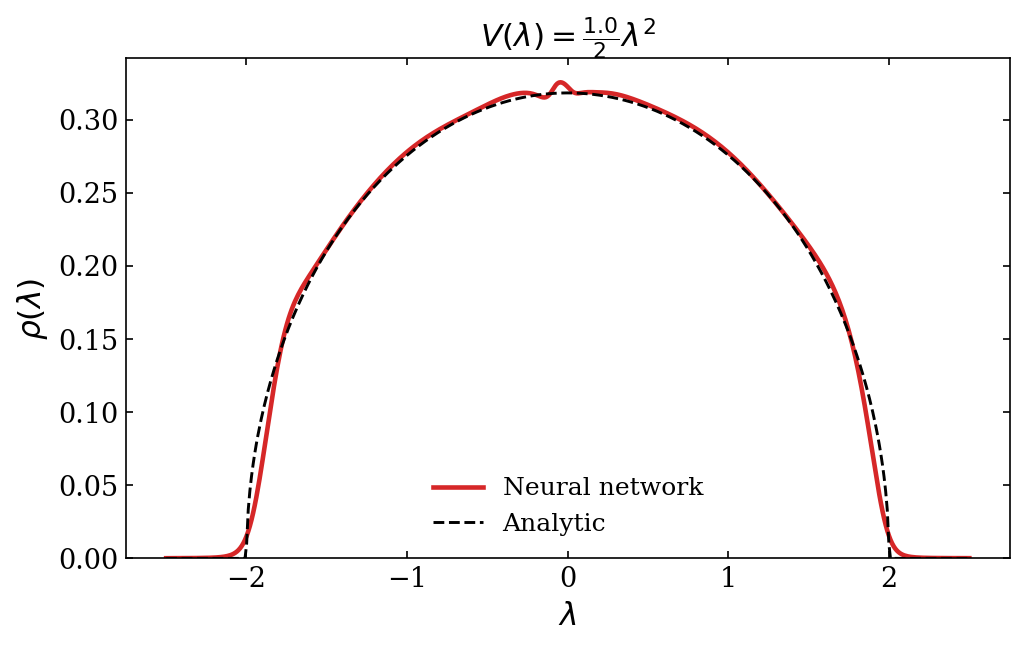
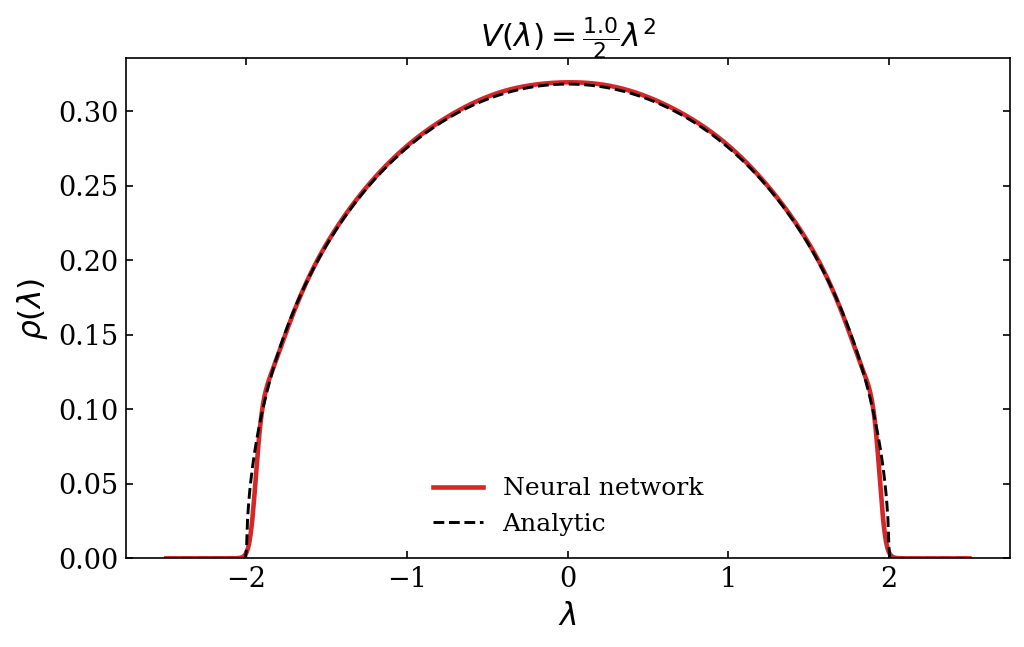
changed activation

diff --git a/plot.py b/plot.py
@@ -1,14 +1,15 @@
 import math
 import pickle
 
+import jax
 import jax.numpy as jnp
 import matplotlib.pyplot as plt
 import numpy as np
 import torch
 
 from config import *
-from model import MatrixNetwork as TorchModel
 from model_jax import MatrixNetwork as JaxModel
+from model_torch import MatrixNetwork as TorchModel
 
 
 def plot_torch(model, grid, args, save_path=None):
@@ -20,7 +21,7 @@ def plot_torch(model, grid, args, save_path=None):
 
 def plot_jax(params, model, grid, args, save_path=None):
     f = model.apply({"params": params}, grid)
-    rho = jnp.exp(f)
+    rho = jax.nn.softplus(f)
     rho = rho / jnp.trapezoid(rho, grid)
     plot(np.array(rho), np.array(grid), args, save_path)
 

diff --git a/model_jax.py b/model_jax.py
@@ -12,6 +12,6 @@ class MatrixNetwork(nn.Module):
         x = x[..., None]
         for _ in range(self.num_layers):
             x = nn.Dense(self.hidden_dim)(x)
-            x = nn.tanh(x)
+            x = nn.gelu(x)
         x = nn.Dense(1)(x)
         return x[..., 0]

diff --git a/train_jax.py b/train_jax.py
@@ -11,7 +11,7 @@ from model_jax import MatrixNetwork
 def compute_loss(params, model, V, grid, nu=0.5):
 
     f = model.apply({"params": params}, grid)
-    rho = jnp.exp(f)
+    rho = jax.nn.softplus(f)
     Z = jnp.trapezoid(rho, grid)
     rho = rho / Z
 

diff --git a/train_torch.py b/train_torch.py
@@ -2,7 +2,7 @@ import torch
 import torch.nn as nn
 
 from config import *
-from model import MatrixNetwork
+from model_torch import MatrixNetwork
 
 
 def compute_loss(model, V, grid, nu=0.5):

diff --git a/config.py b/config.py
@@ -1,9 +1,9 @@
 import argparse
 
-HIDDEN_DIM = 256
-N_LAYERS = 4
+HIDDEN_DIM = 128
+N_LAYERS = 6
 
-GRID_PTS = 500
+GRID_PTS = 800
 
 
 def get_args():
